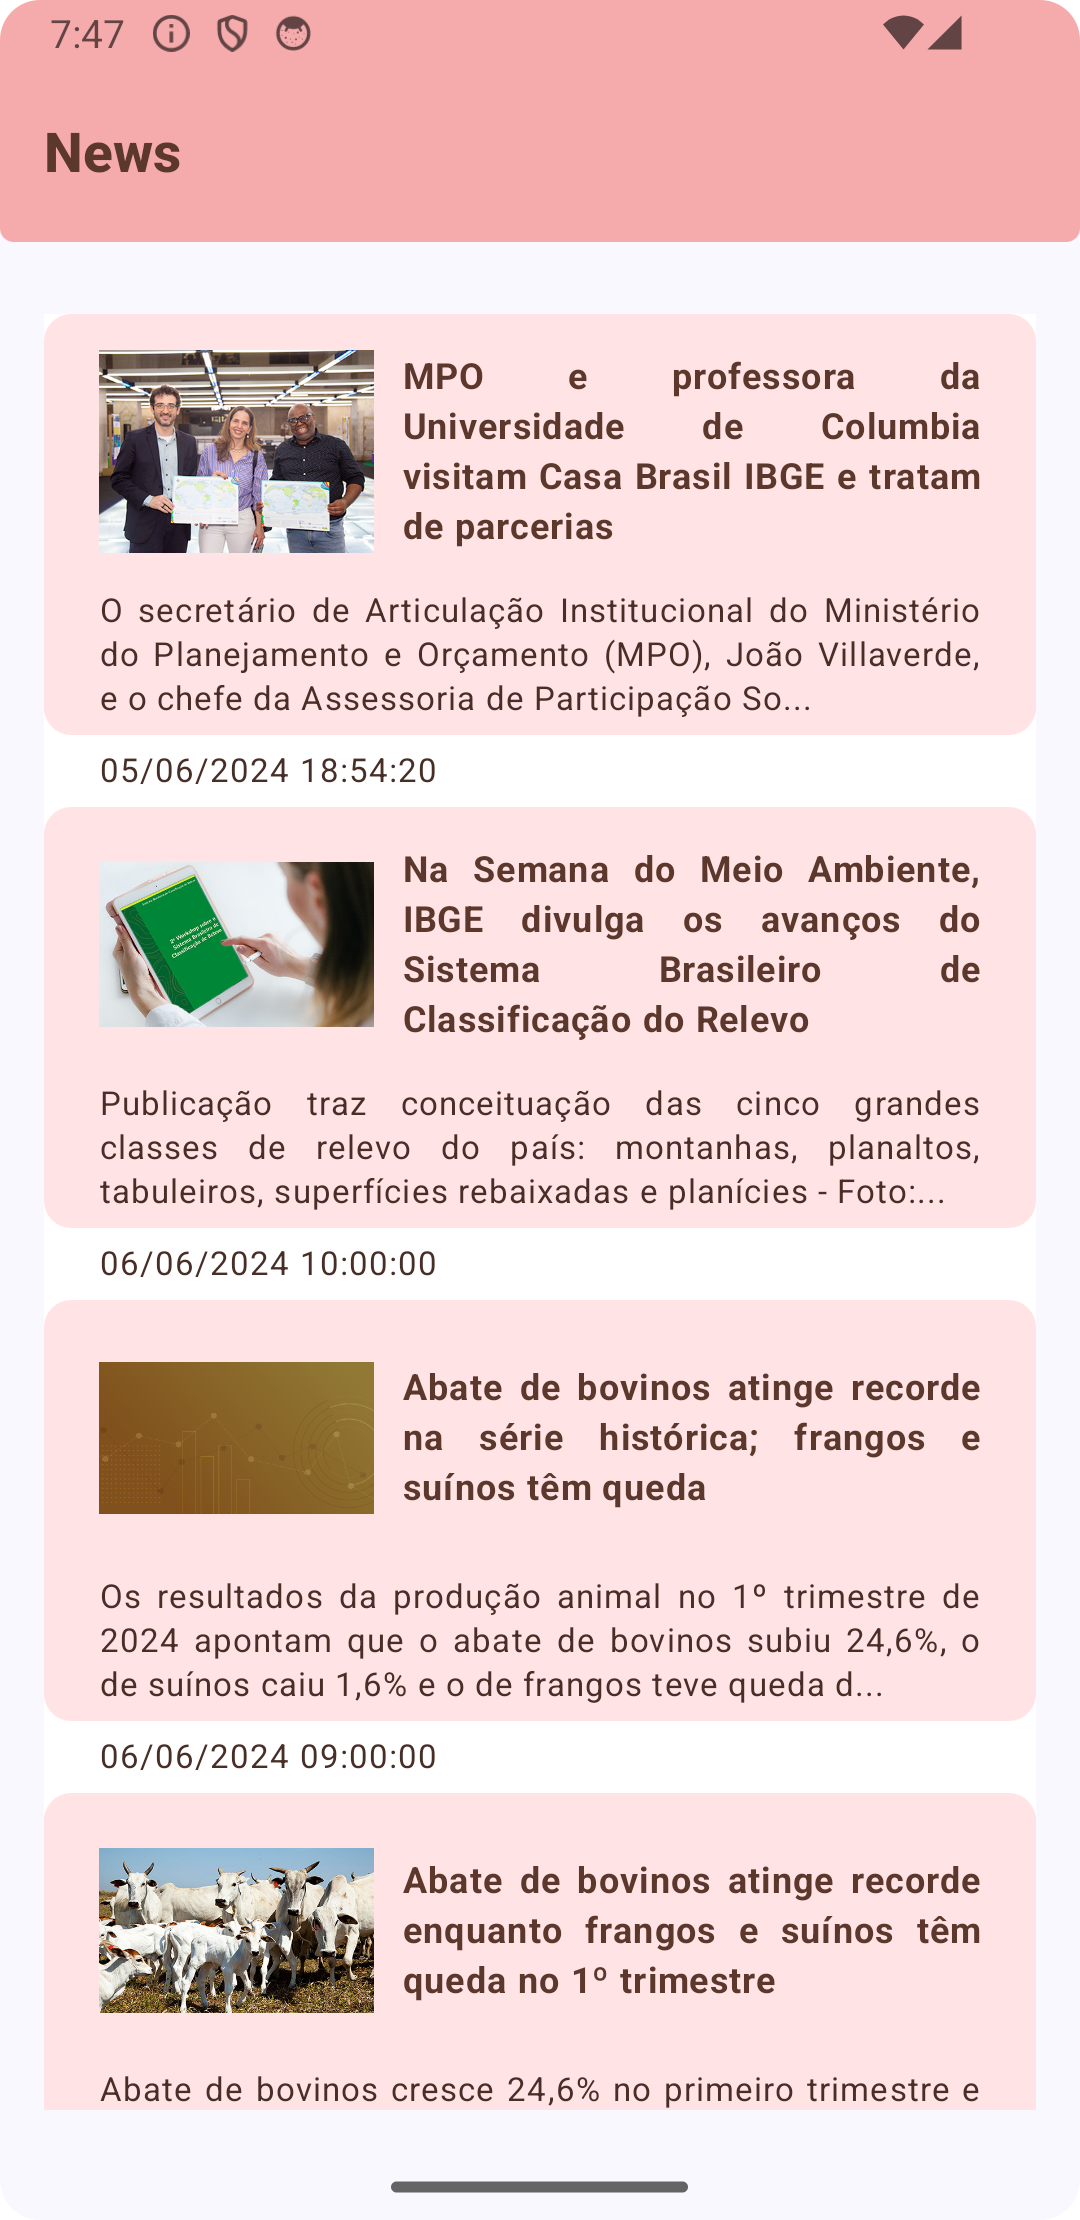
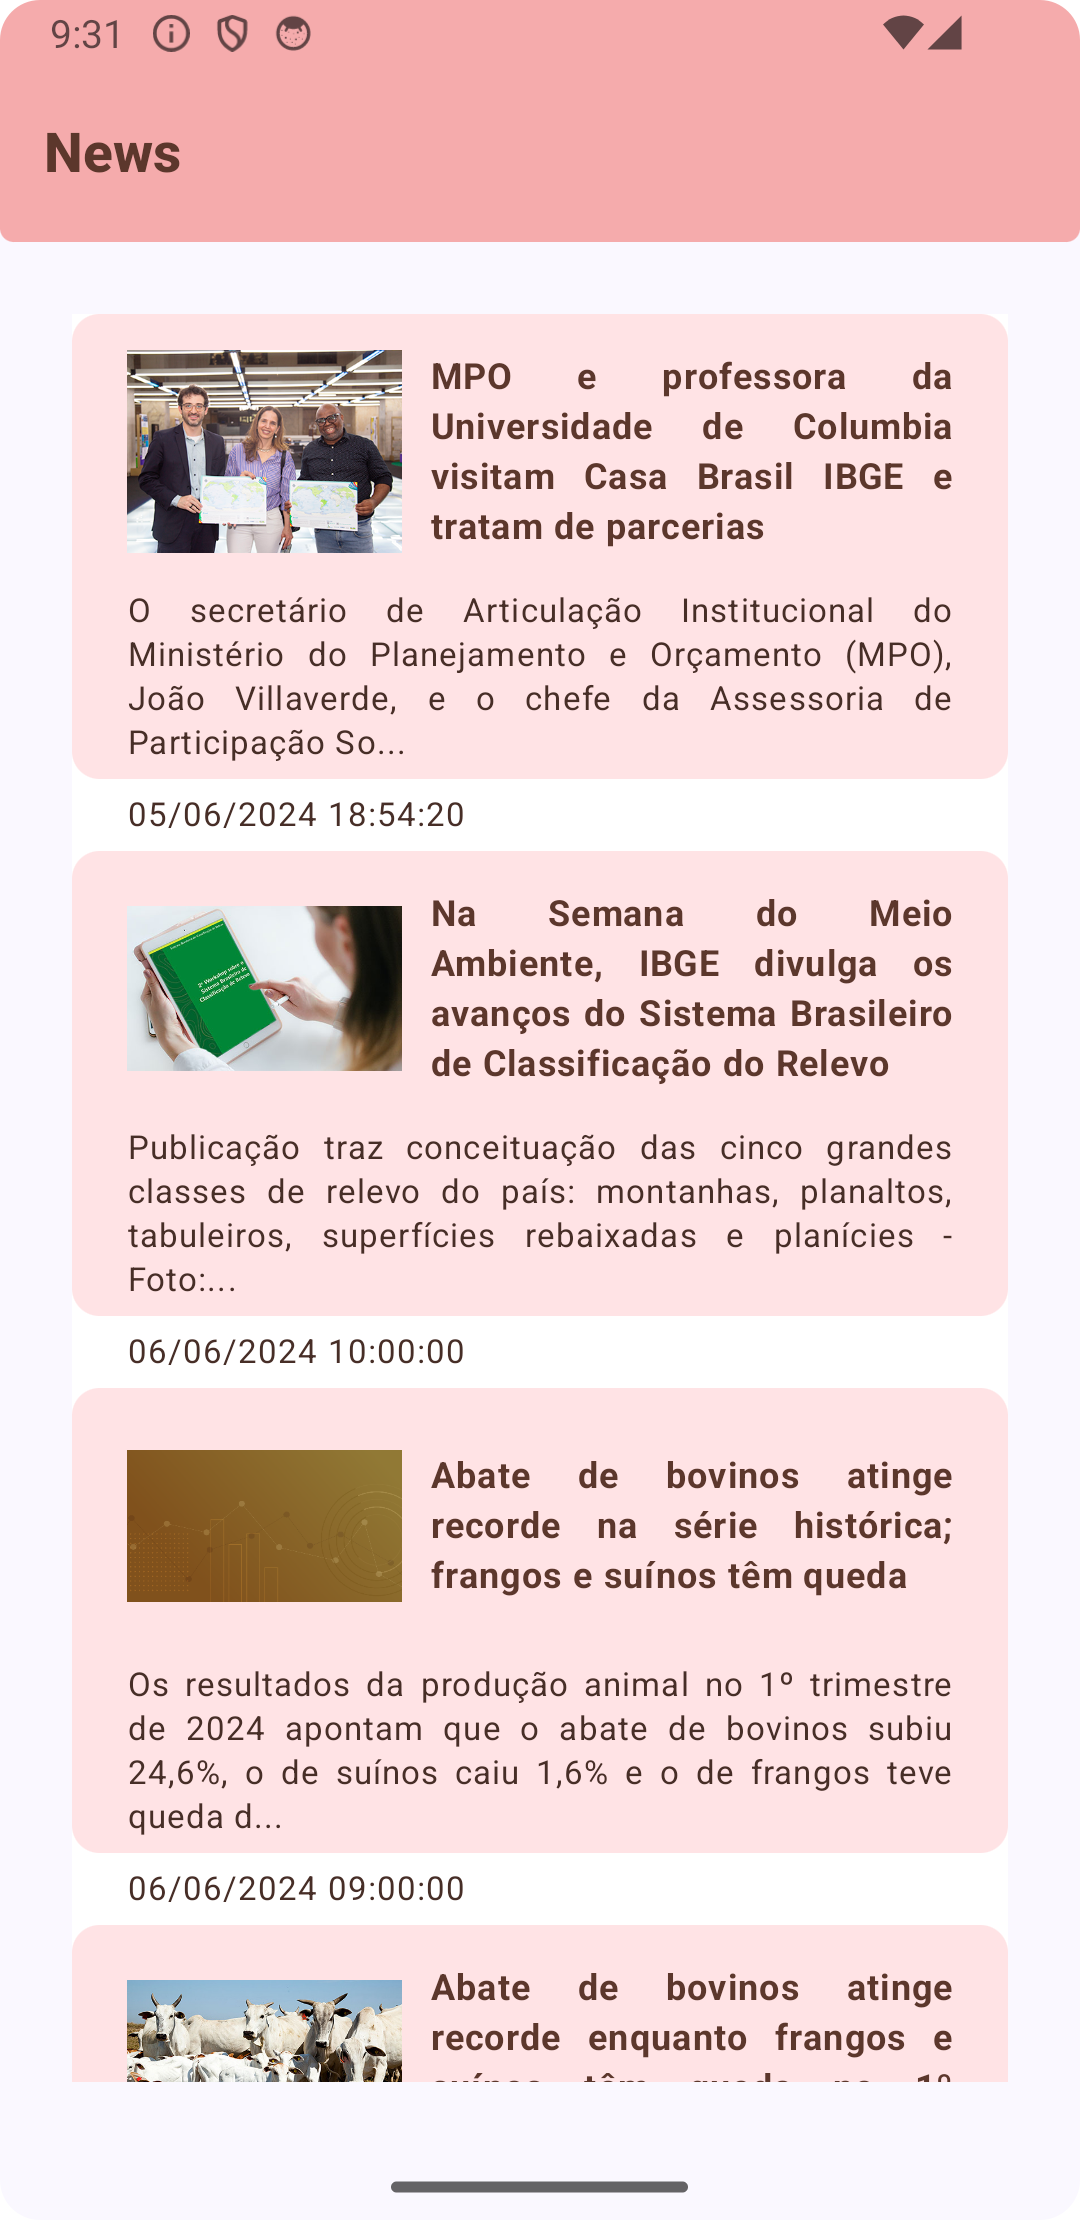
refactor code

diff --git a/app/src/main/java/com/example/desafiofenoxtec/presentation/screens/MainActivity.kt b/app/src/main/java/com/example/desafiofenoxtec/presentation/screens/MainActivity.kt
@@ -1,17 +1,16 @@
-package com.example.desafiofenoxtec.Presentation.Ui
+package com.example.desafiofenoxtec.presentation.screens
 
 import android.os.Bundle
 import androidx.activity.ComponentActivity
 import androidx.activity.compose.setContent
 import androidx.activity.enableEdgeToEdge
-import androidx.activity.result.ActivityResultLauncher
 import androidx.activity.viewModels
-import androidx.compose.foundation.background
 import androidx.compose.foundation.layout.Box
 import androidx.compose.foundation.layout.Column
 import androidx.compose.foundation.layout.fillMaxSize
 import androidx.compose.foundation.layout.padding
 import androidx.compose.foundation.shape.RoundedCornerShape
+import androidx.compose.material3.CircularProgressIndicator
 import androidx.compose.material3.ExperimentalMaterial3Api
 import androidx.compose.material3.Scaffold
 import androidx.compose.material3.Surface
@@ -20,18 +19,17 @@ import androidx.compose.material3.TopAppBar
 import androidx.compose.material3.TopAppBarDefaults
 import androidx.compose.ui.Alignment
 import androidx.compose.ui.Modifier
-import androidx.compose.ui.graphics.Color
+import androidx.compose.ui.draw.clip
 import androidx.compose.ui.text.font.FontWeight
 import androidx.compose.ui.unit.dp
 import androidx.compose.ui.unit.sp
 import androidx.navigation.compose.rememberNavController
-import com.example.desafiofenoxtec.Presentation.AppNavGraph
-import com.example.desafiofenoxtec.Presentation.NewsListViewModel
+import com.example.desafiofenoxtec.presentation.AppNavGraph
+import com.example.desafiofenoxtec.presentation.NewsListViewModel
 
 import com.example.desafiofenoxtec.ui.theme.DesafioFenoxTecTheme
 import com.example.desafiofenoxtec.ui.theme.brown
 import com.example.desafiofenoxtec.ui.theme.pink_300
-import com.example.desafiofenoxtec.ui.theme.pink_500
 import dagger.hilt.android.AndroidEntryPoint
 
 
@@ -83,13 +81,20 @@ class MainActivity : ComponentActivity() {
                     ) {
                         Column(
                             modifier = Modifier
-                                .padding(top = 10.dp)
-                                .fillMaxSize(),
+                                .padding(10.dp)
+                                .fillMaxSize()
+                                .clip(RoundedCornerShape(10.dp)),
 
                             horizontalAlignment = Alignment.CenterHorizontally
                         ) {
 
                             AppNavGraph(navController = navController, state = newsListViewModel.state)
+                        }
+
+                        if (newsListViewModel.state.isLoading){
+                            CircularProgressIndicator(
+                                modifier = Modifier.align(Alignment.Center)
+                            )
                         }
                     }
                 }

diff --git a/app/src/main/java/com/example/desafiofenoxtec/presentation/screens/NewsDetail.kt b/app/src/main/java/com/example/desafiofenoxtec/presentation/screens/NewsDetail.kt
@@ -1,41 +1,41 @@
-package com.example.desafiofenoxtec.Presentation.Ui
+package com.example.desafiofenoxtec.presentation.screens
 
 import androidx.compose.foundation.background
 import androidx.compose.foundation.layout.Arrangement
-import androidx.compose.foundation.layout.Box
 import androidx.compose.foundation.layout.Column
-import androidx.compose.foundation.layout.fillMaxSize
 import androidx.compose.foundation.layout.padding
 import androidx.compose.foundation.layout.size
 import androidx.compose.foundation.shape.RoundedCornerShape
+import androidx.compose.material3.CircularProgressIndicator
 import androidx.compose.material3.Text
 import androidx.compose.runtime.Composable
 import androidx.compose.ui.Alignment
 import androidx.compose.ui.Modifier
+import androidx.compose.ui.draw.clip
 import androidx.compose.ui.text.font.FontWeight
 import androidx.compose.ui.text.style.TextAlign
 import androidx.compose.ui.unit.dp
 import androidx.compose.ui.unit.sp
-import androidx.navigation.NavHostController
 import coil.compose.AsyncImage
-import com.example.desafiofenoxtec.Data.Remote.NewsResponse
-import com.example.desafiofenoxtec.Presentation.NewsRemoteState
+import com.example.desafiofenoxtec.data.remote.NewsResponse
+import com.example.desafiofenoxtec.presentation.NewsListViewModel
 import com.example.desafiofenoxtec.ui.theme.brown
 import com.example.desafiofenoxtec.ui.theme.brown_2
 import com.example.desafiofenoxtec.ui.theme.pink_100
 
 @Composable
 fun NewsDetail(
-    state: NewsRemoteState,
-    navController: NavHostController,
-    newsResponse: NewsResponse.NewsItem
+    newsResponse: NewsResponse.NewsItem,
+    viewModel: NewsListViewModel
 ) {
 
     Column(
         modifier = Modifier
             .background(color = pink_100)
-            .padding(10.dp),
+            .padding(10.dp)
+            .clip(RoundedCornerShape(10.dp)),
         verticalArrangement = Arrangement.spacedBy(5.dp),
+        horizontalAlignment = Alignment.CenterHorizontally
 
     ) {
         Text(
@@ -73,5 +73,8 @@ fun NewsDetail(
             lineHeight = 18.sp,
             modifier = Modifier.padding(top=10.dp, start = 10.dp, bottom = 10.dp)
         )
+        if (viewModel.state.isLoading){
+            CircularProgressIndicator()
+        }
     }
 }

diff --git a/app/src/main/java/com/example/desafiofenoxtec/presentation/AppNavGraph.kt b/app/src/main/java/com/example/desafiofenoxtec/presentation/AppNavGraph.kt
@@ -1,4 +1,4 @@
-package com.example.desafiofenoxtec.Presentation
+package com.example.desafiofenoxtec.presentation
 
 import androidx.compose.runtime.Composable
 import androidx.hilt.navigation.compose.hiltViewModel
@@ -7,8 +7,8 @@ import androidx.navigation.NavType
 import androidx.navigation.compose.NavHost
 import androidx.navigation.compose.composable
 import androidx.navigation.navArgument
-import com.example.desafiofenoxtec.Presentation.Ui.NewsDetail
-import com.example.desafiofenoxtec.Presentation.Ui.NewsListCard
+import com.example.desafiofenoxtec.presentation.screens.NewsDetail
+import com.example.desafiofenoxtec.presentation.screens.NewsListCard
 
 @Composable
 fun AppNavGraph(
@@ -19,21 +19,21 @@ fun AppNavGraph(
 
     NavHost(
         navController = navController,
-        startDestination = navegationScreens.News.route
+        startDestination = NavScreens.News.route
     ) {
 
         composable(
-            route = navegationScreens.Detail.route,
+            route = NavScreens.Detail.route,
             arguments = listOf(navArgument("newsId") { type = NavType.StringType })
         ) { backStackEntry ->
             val newsId = backStackEntry.arguments?.getString("newsId")?.toIntOrNull()
             val newsItem = state.newsResponse?.items?.find { it.id == newsId }
             newsItem?.let {
-                NewsDetail(state, navController, newsItem)
+                NewsDetail( newsItem,viewModel)
             }
         }
 
-        composable(route = navegationScreens.News.route) {
+        composable(route = NavScreens.News.route) {
             NewsListCard(state,viewModel, navController)
         }
     }

diff --git a/app/src/main/java/com/example/desafiofenoxtec/presentation/screens/NewsListCard.kt b/app/src/main/java/com/example/desafiofenoxtec/presentation/screens/NewsListCard.kt
@@ -1,4 +1,4 @@
-package com.example.desafiofenoxtec.Presentation.Ui
+package com.example.desafiofenoxtec.presentation.screens
 
 import androidx.compose.foundation.background
 import androidx.compose.foundation.clickable
@@ -26,9 +26,9 @@ import androidx.compose.ui.unit.dp
 import androidx.compose.ui.unit.sp
 import androidx.navigation.NavHostController
 import coil.compose.AsyncImage
-import com.example.desafiofenoxtec.Presentation.NewsListViewModel
-import com.example.desafiofenoxtec.Presentation.NewsRemoteState
-import com.example.desafiofenoxtec.Presentation.navegationScreens
+import com.example.desafiofenoxtec.presentation.NewsListViewModel
+import com.example.desafiofenoxtec.presentation.NewsRemoteState
+import com.example.desafiofenoxtec.presentation.NavScreens
 import com.example.desafiofenoxtec.ui.theme.brown
 import com.example.desafiofenoxtec.ui.theme.brown_2
 import com.example.desafiofenoxtec.ui.theme.pink_100
@@ -66,7 +66,7 @@ fun NewsListCard(
                             modifier = Modifier
                                 .clickable {
                                     navController.navigate(
-                                        navegationScreens.Detail.createRoute(
+                                        NavScreens.Detail.createRoute(
                                             newsItem.id.toString()
                                         )
                                     )

diff --git a/app/src/main/java/com/example/desafiofenoxtec/presentation/NewsListViewModel.kt b/app/src/main/java/com/example/desafiofenoxtec/presentation/NewsListViewModel.kt
@@ -1,16 +1,15 @@
-package com.example.desafiofenoxtec.Presentation
+package com.example.desafiofenoxtec.presentation
 
 import androidx.compose.runtime.getValue
 import androidx.compose.runtime.mutableStateOf
 import androidx.compose.runtime.setValue
 import androidx.lifecycle.ViewModel
 import androidx.lifecycle.viewModelScope
-import com.example.desafiofenoxtec.Data.Repository.DataBaseRepository
-import com.example.desafiofenoxtec.Data.Local.NewsEntity
-import com.example.desafiofenoxtec.Data.Repository.NewsApiRepository
-import com.example.desafiofenoxtec.Domain.Util.Resource
+import com.example.desafiofenoxtec.data.repository.DataBaseRepository
+import com.example.desafiofenoxtec.data.local.NewsEntity
+import com.example.desafiofenoxtec.data.repository.NewsApiRepository
+import com.example.desafiofenoxtec.domain.util.Resource
 import dagger.hilt.android.lifecycle.HiltViewModel
-import kotlinx.coroutines.delay
 import kotlinx.coroutines.flow.MutableStateFlow
 import kotlinx.coroutines.flow.StateFlow
 import kotlinx.coroutines.flow.asStateFlow
@@ -89,5 +88,6 @@ class NewsListViewModel @Inject constructor(
 
     private suspend fun saveNewsToDataBase(newsList:List<NewsEntity>){
         dataBaseRepository.saveNews(newsList)
+        dataBaseRepository.updateNews((newsList))
     }
 }

diff --git a/app/src/main/java/com/example/desafiofenoxtec/data/local/NewsDao.kt b/app/src/main/java/com/example/desafiofenoxtec/data/local/NewsDao.kt
@@ -1,13 +1,11 @@
-package com.example.desafiofenoxtec.Data.Local
+package com.example.desafiofenoxtec.data.local
 
 import androidx.room.Dao
-import androidx.room.Delete
 import androidx.room.Insert
 import androidx.room.OnConflictStrategy
 import androidx.room.Query
 import androidx.room.Update
 import kotlinx.coroutines.flow.Flow
-
 
 @Dao
 interface NewsDao {
@@ -15,15 +13,11 @@ interface NewsDao {
     @Query("SELECT * FROM NewsEntity ORDER BY id DESC")
     fun getAllNews(): Flow<List<NewsEntity>>
 
-
-
     @Insert(onConflict = OnConflictStrategy.REPLACE)
     suspend fun insertAllNews(newsList: List<NewsEntity>)
 
     @Query("DELETE FROM NewsEntity")
     suspend fun clearAllNews()
-
-
 
     @Update
     suspend fun updateNews(newsEntity: List<NewsEntity>)

diff --git a/app/src/main/java/com/example/desafiofenoxtec/data/repository/DataBaseRepository.kt b/app/src/main/java/com/example/desafiofenoxtec/data/repository/DataBaseRepository.kt
@@ -1,16 +1,14 @@
-package com.example.desafiofenoxtec.Data.Repository
+package com.example.desafiofenoxtec.data.repository
 
-import com.example.desafiofenoxtec.Data.Local.NewsDao
-import com.example.desafiofenoxtec.Data.Local.NewsEntity
+import com.example.desafiofenoxtec.data.local.NewsDao
+import com.example.desafiofenoxtec.data.local.NewsEntity
 import javax.inject.Inject
 
 class DataBaseRepository @Inject constructor(
     private val dao: NewsDao
 ) {
-
     suspend fun saveNews(news:List<NewsEntity>) = dao.insertAllNews(news)
     suspend fun updateNews(news:List<NewsEntity>) = dao.updateNews(news)
-
     fun getAllNews() = dao.getAllNews()
 
 }

diff --git a/app/src/main/java/com/example/desafiofenoxtec/data/remote/NewsResponse.kt b/app/src/main/java/com/example/desafiofenoxtec/data/remote/NewsResponse.kt
@@ -1,4 +1,4 @@
-package com.example.desafiofenoxtec.Data.Remote
+package com.example.desafiofenoxtec.data.remote
 
 import android.os.Parcelable
 import com.google.gson.Gson
@@ -8,7 +8,6 @@ import kotlinx.parcelize.Parcelize
 data class NewsResponse(
     val items: List<NewsItem>
 ) {
-
     @Parcelize
     data class NewsItem(
         val id: Int,
@@ -24,7 +23,6 @@ data class NewsResponse(
             return "https://agenciadenoticias.ibge.gov.br/${imagem?.imageIntro}"
         }
     }
-
     data class Imagem(
         @SerializedName("image_intro") val imageIntro: String,
         @SerializedName("image_fulltext") val imageFulltext: String

diff --git a/app/src/main/java/com/example/desafiofenoxtec/data/repository/NewsRepositoryImplemetation.kt b/app/src/main/java/com/example/desafiofenoxtec/data/repository/NewsRepositoryImplemetation.kt
@@ -1,8 +1,8 @@
-package com.example.desafiofenoxtec.Data.Repository
+package com.example.desafiofenoxtec.data.repository
 
-import com.example.desafiofenoxtec.Data.Remote.NewsApi
-import com.example.desafiofenoxtec.Data.Remote.NewsResponse
-import com.example.desafiofenoxtec.Domain.Util.Resource
+import com.example.desafiofenoxtec.data.remote.NewsApi
+import com.example.desafiofenoxtec.data.remote.NewsResponse
+import com.example.desafiofenoxtec.domain.util.Resource
 import javax.inject.Inject
 
 class NewsRepositoryImplemetation @Inject constructor(

diff --git a/app/src/main/java/com/example/desafiofenoxtec/domain/dependencyInjection/NewsRepositoryModule.kt b/app/src/main/java/com/example/desafiofenoxtec/domain/dependencyInjection/NewsRepositoryModule.kt
@@ -1,7 +1,7 @@
-package com.example.desafiofenoxtec.Domain.DependencyInjection
+package com.example.desafiofenoxtec.domain.dependencyInjection
 
-import com.example.desafiofenoxtec.Data.Repository.NewsApiRepository
-import com.example.desafiofenoxtec.Data.Repository.NewsRepositoryImplemetation
+import com.example.desafiofenoxtec.data.repository.NewsApiRepository
+import com.example.desafiofenoxtec.data.repository.NewsRepositoryImplemetation
 import dagger.Binds
 import dagger.Module
 import dagger.hilt.InstallIn

diff --git a/app/src/main/java/com/example/desafiofenoxtec/domain/dependencyInjection/DaoModule.kt b/app/src/main/java/com/example/desafiofenoxtec/domain/dependencyInjection/DaoModule.kt
@@ -1,9 +1,9 @@
-package com.example.desafiofenoxtec.Domain.DependencyInjection
+package com.example.desafiofenoxtec.domain.dependencyInjection
 
 import android.content.Context
 import androidx.room.Room
-import com.example.desafiofenoxtec.Data.Local.AppDataBase
-import com.example.desafiofenoxtec.Data.Local.NewsEntity
+import com.example.desafiofenoxtec.data.local.AppDataBase
+import com.example.desafiofenoxtec.data.local.NewsEntity
 import dagger.Module
 import dagger.Provides
 import dagger.hilt.InstallIn

diff --git a/app/src/main/java/com/example/desafiofenoxtec/data/local/AppDataBase.kt b/app/src/main/java/com/example/desafiofenoxtec/data/local/AppDataBase.kt
@@ -1,4 +1,4 @@
-package com.example.desafiofenoxtec.Data.Local
+package com.example.desafiofenoxtec.data.local
 
 import androidx.room.Database
 import androidx.room.RoomDatabase
@@ -6,5 +6,4 @@ import androidx.room.RoomDatabase
 @Database(entities = [NewsEntity::class], version = 1)
 abstract class AppDataBase : RoomDatabase() {
     abstract fun newsDao():NewsDao
-
 }
